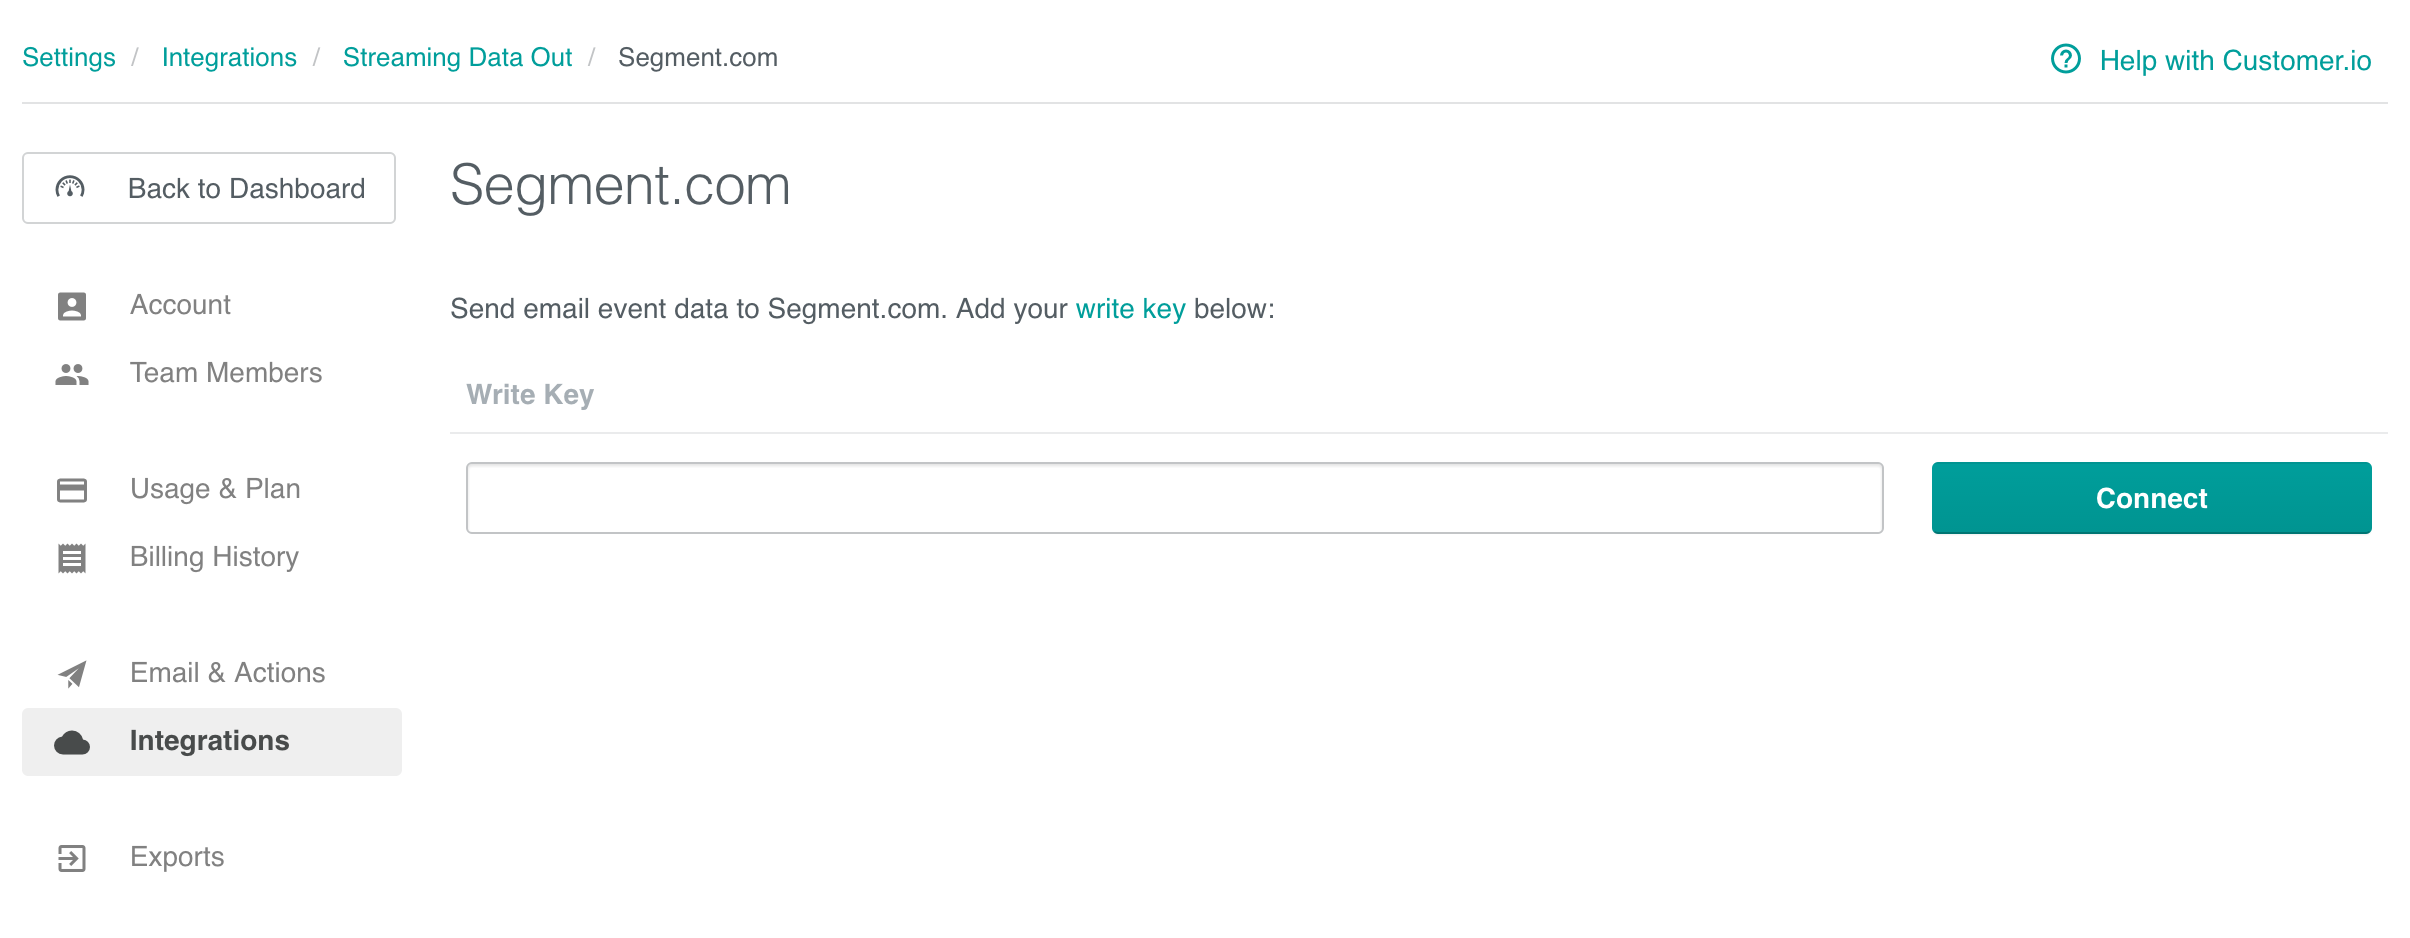
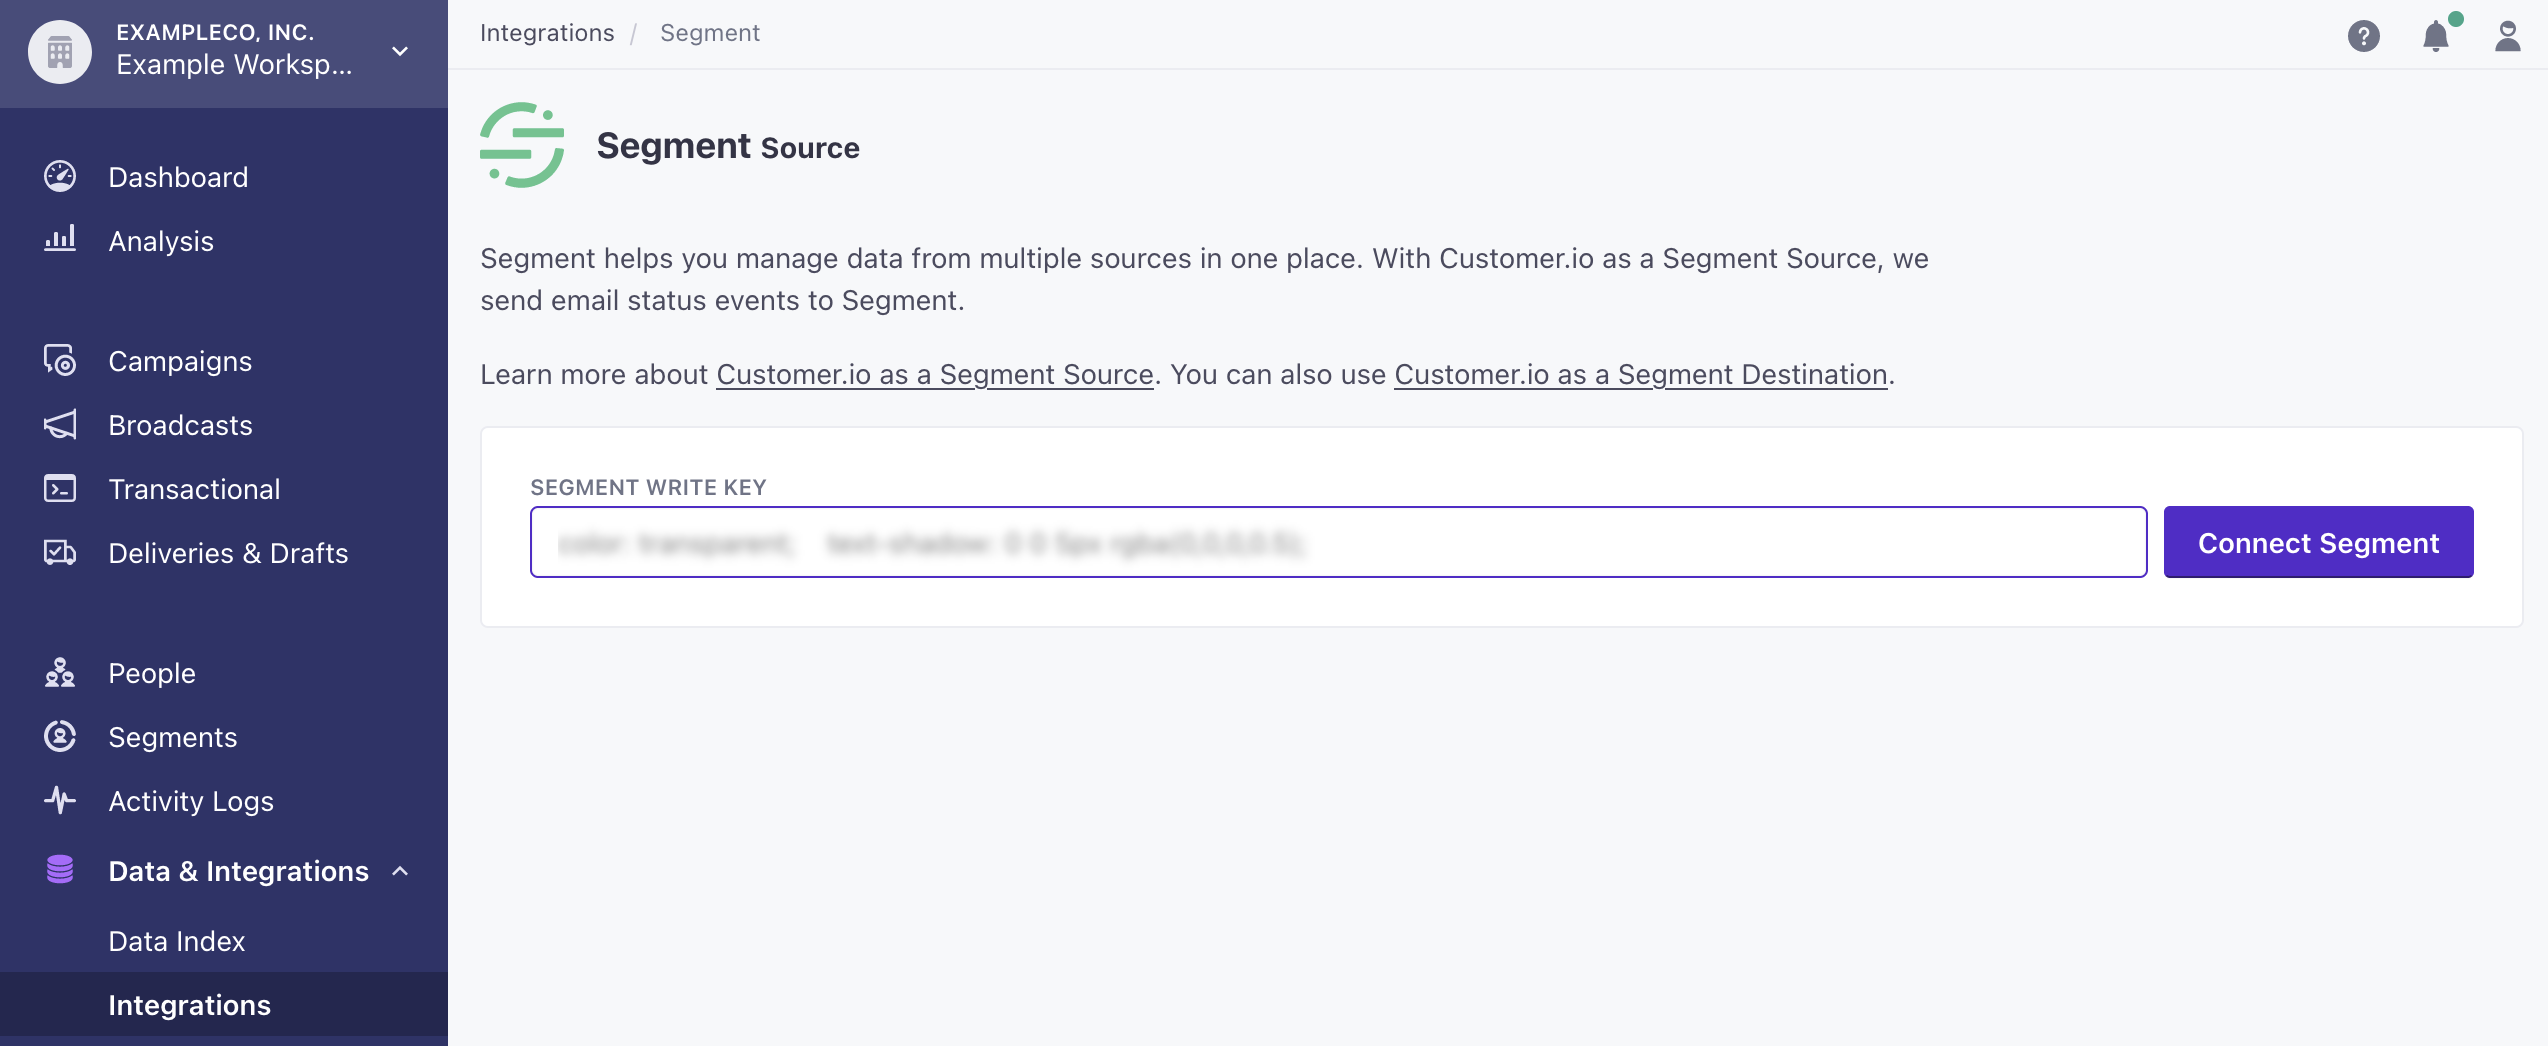
updated customerio source process and screenshots

Changed region(s): [[0.0, 0.0, 0.9959, 1.0], [0.8714, 0.0, 0.9959, 0.0928]]

diff --git a/src/connections/sources/catalog/cloud-apps/customer-io/index.md b/src/connections/sources/catalog/cloud-apps/customer-io/index.md
@@ -13,27 +13,23 @@ In your favorite BI or analytics tool, you'll be able to analyze your email camp
 
 ## Getting Started
 
-If you have previously enabled sending email events using the Customer.io destination during our beta (using a project write key), you do not need to create new Customer.io source. Your email data will continue to flow as normal.
+If you previously sent email events using the Customer.io destination during our beta (using a project write key), you do not need to create new Customer.io source. Your email data will continue to flow as normal.
 
+1. Go to **Connections > Sources** and click **Add Source** in the Segment app.
 
-1. From your workspace's `segment.com/<your-workspace>/sources` page, click **Add source**.
-
-2. Choose Customer.io.
+2. Search for **Customer.io** in the Sources Catalog and click **Add Source**.
 
 3. Give the Source a name and add any labels to help you organize and filter your sources. You can give the source any name, but Segment recommends a name that reflects the source itself, as this name autopopulates the schema name. For example, the source name  `Customer.io` creates the schema `customerio`.
 
 4. The next page ("Overview") displays your **Segment write key for Customer.io.** Copy this write key. 
 
-5. To finish the set up, go to your Customer.io account, go to **Settings > Integrations > Segment**, and enter the Segment write key.
+5. To finish the set up, go to your Customer.io account, go to **Data & Integrations > Integrations > Segment**, and enter the Segment write key.
 
-![](images/customerio_streaming_data_out.png)
+   ![](images/customerio_streaming_data_out.png)
 
+6. Click **Connect Segment**.
 
-6. Click **Save**.
-
-7. In Segment, click into your Customer.io Source in `segment.com/goto-my-workspace/sources`. From there you'll be able to add Destinations where you want to see email events.
-
-![](images/customerio1.gif)
+7. In Segment, click **Add Destinations** in your Customer.io source to add destinations for your Customer.io data.
 
 That's it! As you send emails, events will now be sent to your destinations and automatically loaded into any warehouses you have enabled. 
 
